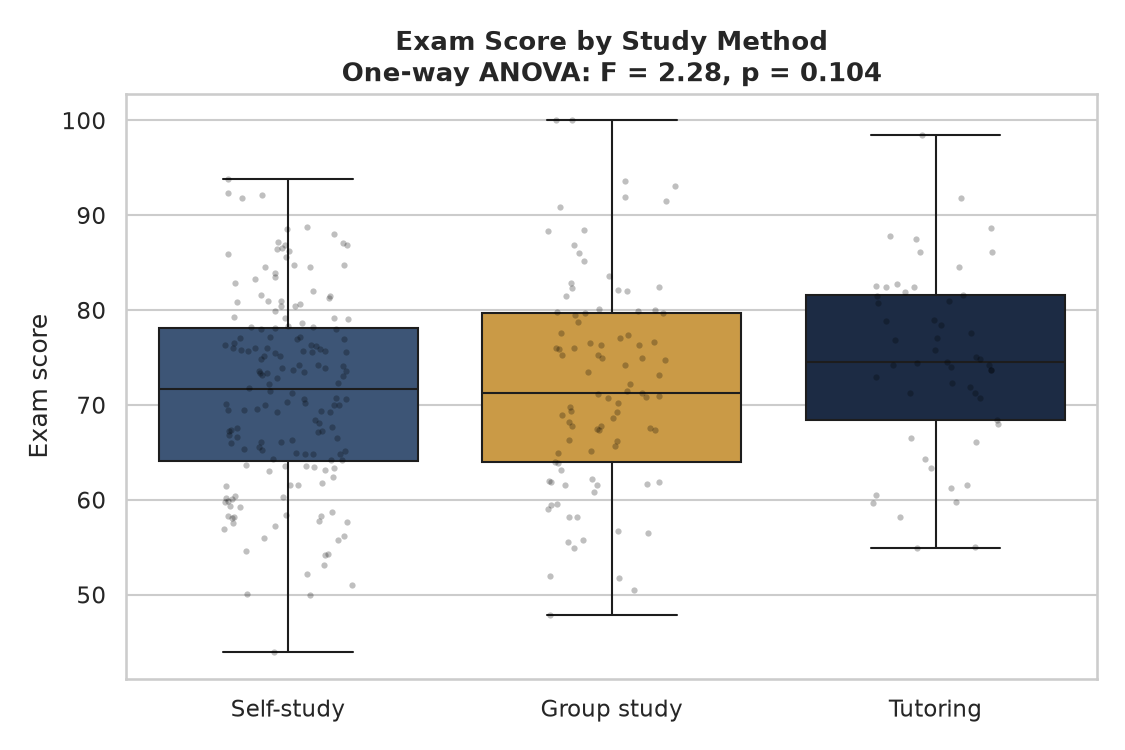
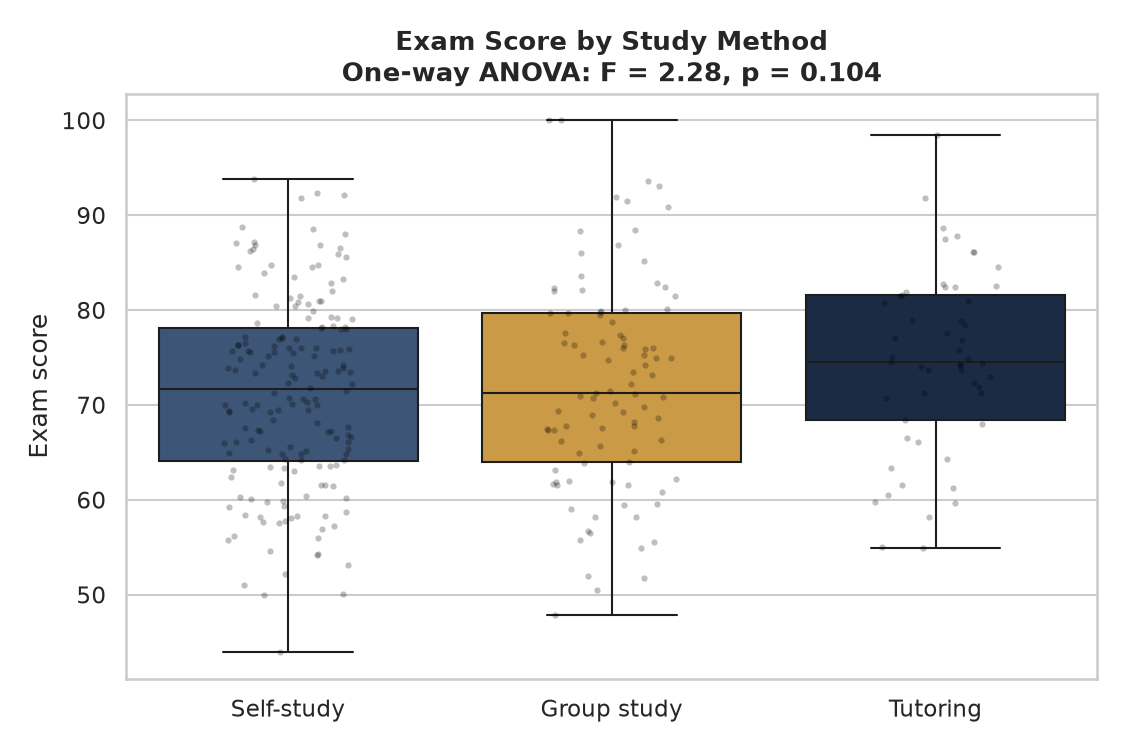
Remove em dashes from Statistical Modelling Project I case study
Replaces em dashes with colons, commas, or parentheses throughout the
case study page and analysis script, and regenerates the results log
and two charts to match.

Claude-Session: https://claude.ai/code/session_01UN69GT3kz6LBCLagnVxnRW

diff --git a/statistical-modelling-project-1-case-study.html b/statistical-modelling-project-1-case-study.html
@@ -3,7 +3,7 @@
 <head>
 <meta charset="UTF-8">
 <meta name="viewport" content="width=device-width, initial-scale=1.0">
-<title>Statistical Modelling Project I — Prachi Dabli</title>
+<title>Statistical Modelling Project I | Prachi Dabli</title>
 <meta name="description" content="A BSc Mathematics statistical modelling case study covering distributions, correlation and regression, applied to a synthetic student exam-performance dataset in Python.">
 <link rel="preconnect" href="https://fonts.googleapis.com">
 <link rel="preconnect" href="https://fonts.gstatic.com" crossorigin>
@@ -125,8 +125,8 @@
 <header class="hero">
   <div class="wrap">
     <span class="eyebrow">Academic Project · BSc Mathematics · Statistical Modelling</span>
-    <h1>Statistical Modelling Project I — Student Exam Performance</h1>
-    <p class="lede">A demonstration of core statistical techniques — distributions, correlation and regression — applied to a synthetic student dataset to test hypotheses about what actually relates to exam performance.</p>
+    <h1>Statistical Modelling Project I: Student Exam Performance</h1>
+    <p class="lede">A demonstration of core statistical techniques (distributions, correlation and regression) applied to a synthetic student dataset to test hypotheses about what actually relates to exam performance.</p>
     <div class="chips">
       <span class="chip">Python</span>
       <span class="chip">pandas / NumPy</span>
@@ -152,8 +152,8 @@
   <div class="wrap">
     <div class="sec-label">Objective</div>
     <h2>The question</h2>
-    <p>The brief behind this piece of coursework was to take a dataset and demonstrate a full statistical workflow: describe it, understand how its variables are distributed, test whether variables relate to one another, and build a model that explains an outcome — all supported by formal hypothesis tests rather than eyeballed patterns.</p>
-    <p>The illustrative question chosen: <strong>what is actually associated with a student's exam score</strong> — and does it hold up once you the run the numbers, or is it just intuition? Six variables were modelled for 320 students: weekly study hours, attendance rate, sleep hours, prior GPA, extracurricular hours, and study method (self-study, group study, or tutoring).</p>
+    <p>The brief behind this piece of coursework was to take a dataset and demonstrate a full statistical workflow: describe it, understand how its variables are distributed, test whether variables relate to one another, and build a model that explains an outcome, with every step supported by formal hypothesis tests rather than eyeballed patterns.</p>
+    <p>The illustrative question chosen: <strong>what is actually associated with a student's exam score</strong>, and does it hold up once you run the numbers, or is it just intuition? Six variables were modelled for 320 students: weekly study hours, attendance rate, sleep hours, prior GPA, extracurricular hours, and study method (self-study, group study, or tutoring).</p>
     <ul>
       <li>Is the exam score roughly normally distributed, and how spread out is it?</li>
       <li>Which variables correlate meaningfully with exam performance, and which don't?</li>
@@ -171,15 +171,15 @@
     <h2>A realistic synthetic dataset</h2>
     <p>The dataset is fully <strong>synthetic</strong>, generated programmatically in Python (NumPy) with a fixed random seed so every result on this page is reproducible. It was deliberately built with realistic statistical structure rather than a perfect textbook relationship:</p>
     <ul>
-      <li>Exam score is generated as a <strong>weighted combination</strong> of the predictors below plus random noise — so relationships exist, but are realistically noisy rather than deterministic.</li>
+      <li>Exam score is generated as a <strong>weighted combination</strong> of the predictors below plus random noise, so relationships exist, but are realistically noisy rather than deterministic.</li>
       <li>A <strong>sleep penalty</strong> kicks in only below 6 hours a night, giving a mild non-linear effect to investigate.</li>
       <li>Study method groups are <strong>unevenly sized</strong> (self-study is most common, tutoring least), as they would be in a real cohort.</li>
-      <li>Several predictors (sleep, extracurricular hours) are included specifically because they turn out <strong>not</strong> to matter much — a deliberate check against assuming every variable is significant.</li>
+      <li>Several predictors (sleep, extracurricular hours) are included specifically because they turn out <strong>not</strong> to matter much: a deliberate check against assuming every variable is significant.</li>
     </ul>
     <table class="data">
       <thead><tr><th>Column</th><th>Description</th><th>Type</th></tr></thead>
       <tbody>
-        <tr><td>student_id</td><td>Unique synthetic student identifier</td><td>—</td></tr>
+        <tr><td>student_id</td><td>Unique synthetic student identifier</td><td>N/A</td></tr>
         <tr><td>study_hours_per_week</td><td>Self-reported weekly study hours</td><td>Continuous</td></tr>
         <tr><td>attendance_rate</td><td>Lecture/seminar attendance, %</td><td>Continuous</td></tr>
         <tr><td>sleep_hours</td><td>Average nightly sleep, hours</td><td>Continuous</td></tr>
@@ -203,8 +203,8 @@
     <div class="sec-label">Methodology</div>
     <h2>From raw data to tested hypotheses</h2>
 
-    <h3>Step 1 — Descriptive statistics &amp; distribution</h3>
-    <p>Before testing relationships, the shape of the outcome variable needs checking — regression and t-tests lean on assumptions about the data's distribution. Exam scores were plotted and tested for normality with a <strong>Shapiro-Wilk test</strong>.</p>
+    <h3>Step 1: Descriptive statistics &amp; distribution</h3>
+    <p>Before testing relationships, the shape of the outcome variable needs checking: regression and t-tests lean on assumptions about the data's distribution. Exam scores were plotted and tested for normality with a <strong>Shapiro-Wilk test</strong>.</p>
     <p class="demo-note">Demonstrates: descriptive statistics, distribution visualisation, formal normality testing.</p>
   </div>
 </section>
@@ -220,13 +220,13 @@
       <div class="stat"><div class="n">p = 0.497</div><div class="l">Shapiro-Wilk p-value <span class="sig sig-no">Fails to reject normality</span></div></div>
       <div class="stat"><div class="n">0.02</div><div class="l">Skewness (near-symmetric)</div></div>
     </div>
-    <p class="fig-cap">With p = 0.497 (&gt; .05), the Shapiro-Wilk test does not reject normality — the exam-score distribution is close to bell-shaped, with skewness near zero. That justifies using regression and t-tests, both of which assume approximately normal, continuous outcomes.</p>
+    <p class="fig-cap">With p = 0.497 (&gt; .05), the Shapiro-Wilk test does not reject normality: the exam-score distribution is close to bell-shaped, with skewness near zero. That justifies using regression and t-tests, both of which assume approximately normal, continuous outcomes.</p>
   </div>
 </section>
 
 <section style="padding-top:0">
   <div class="wrap">
-    <h3>Step 2 — Correlation analysis</h3>
+    <h3>Step 2: Correlation analysis</h3>
     <p>A Pearson correlation matrix across all numeric variables shows which predictors actually move with exam score, before any model is fitted.</p>
     <p class="demo-note">Demonstrates: correlation analysis, statistical significance testing, avoiding the assumption that every variable matters.</p>
   </div>
@@ -249,7 +249,7 @@
             <tr><td>extracurricular_hours</td><td>0.027</td><td>0.634</td></tr>
           </tbody>
         </table>
-        <p style="font-size:14.5px">Study hours, attendance, and prior GPA all correlate significantly with exam score. Sleep and extracurricular commitment do not reach significance at the 5% level — a useful finding in itself, since it stops the analysis reading too much into weak relationships.</p>
+        <p style="font-size:14.5px">Study hours, attendance, and prior GPA all correlate significantly with exam score. Sleep and extracurricular commitment do not reach significance at the 5% level: a useful finding in itself, since it stops the analysis reading too much into weak relationships.</p>
       </div>
     </div>
   </div>
@@ -257,7 +257,7 @@
 
 <section style="padding-top:0">
   <div class="wrap">
-    <h3>Step 3 — Simple linear regression</h3>
+    <h3>Step 3: Simple linear regression</h3>
     <p>Study hours showed the strongest single correlation, so it was modelled first on its own: <code>exam_score ~ study_hours_per_week</code>, fitted by ordinary least squares (OLS) in <code>statsmodels</code>.</p>
     <pre><code>model = smf.ols("exam_score ~ study_hours_per_week", data=df).fit()</code></pre>
     <p class="demo-note">Demonstrates: simple linear regression, interpreting slope/intercept, R² as goodness of fit.</p>
@@ -275,13 +275,13 @@
       <div class="stat"><div class="n">R² = 0.268</div><div class="l">Variance explained by study hours alone</div></div>
       <div class="stat"><div class="n">p &lt; .001</div><div class="l">Slope is statistically significant</div></div>
     </div>
-    <p class="fig-cap">Each extra hour of weekly study is associated with roughly 1.4 additional exam points. But study hours alone explain under 27% of the variation in scores — a clear sign that other factors matter too, which motivates the multiple regression below.</p>
+    <p class="fig-cap">Each extra hour of weekly study is associated with roughly 1.4 additional exam points. But study hours alone explain under 27% of the variation in scores: a clear sign that other factors matter too, which motivates the multiple regression below.</p>
   </div>
 </section>
 
 <section style="padding-top:0">
   <div class="wrap">
-    <h3>Step 4 — Multiple linear regression</h3>
+    <h3>Step 4: Multiple linear regression</h3>
     <p>All five numeric predictors plus study method (as a categorical dummy) were entered into a multiple OLS regression, to see how much of exam score they jointly explain and which stay significant once the others are controlled for.</p>
     <pre><code>model = smf.ols(
     "exam_score ~ study_hours_per_week + attendance_rate + sleep_hours "
@@ -320,7 +320,7 @@
         <div class="stat"><div class="n">+6.74</div><div class="l">Mean point difference</div></div>
         <div class="stat"><div class="n">[4.56, 8.92]</div><div class="l">95% confidence interval for the difference</div></div>
       </div>
-      <p>The gap is both statistically significant and practically meaningful — a nearly 7-point average advantage for consistent attendance, with a 95% CI that comfortably excludes zero.</p>
+      <p>The gap is both statistically significant and practically meaningful: a nearly 7-point average advantage for consistent attendance, with a 95% CI that comfortably excludes zero.</p>
     </div>
 
     <div class="bq">
@@ -330,7 +330,7 @@
         <div class="stat"><div class="n">F = 2.28</div><div class="l">One-way ANOVA F-statistic</div></div>
         <div class="stat"><div class="n">p = 0.104</div><div class="l">p-value <span class="sig sig-no">Fail to reject H₀</span></div></div>
       </div>
-      <p>Despite tutoring students scoring highest on average, the difference between groups is <strong>not statistically significant</strong> at the 5% level. This is a genuinely useful negative result: on this data, it would be overreaching to claim study method drives exam performance — the apparent gap could plausibly be down to chance, at least at this sample size.</p>
+      <p>Despite tutoring students scoring highest on average, the difference between groups is <strong>not statistically significant</strong> at the 5% level. This is a genuinely useful negative result: on this data, it would be overreaching to claim study method drives exam performance. The apparent gap could plausibly be down to chance, at least at this sample size.</p>
     </div>
 
     <div class="fig">
@@ -350,9 +350,9 @@
       <li><strong>Study hours, attendance, and prior GPA</strong> are all significantly correlated with exam score; sleep and extracurricular commitment are not, at least not on their own.</li>
       <li>A <strong>simple regression</strong> on study hours alone explains ~27% of score variation; a <strong>multiple regression</strong> combining the significant predictors nearly doubles that, to ~48%.</li>
       <li>Students attending ≥85% of sessions score <strong>~6.7 points higher on average</strong>, a statistically significant and practically meaningful gap (Welch's t-test, p &lt; .001).</li>
-      <li><strong>Study method does not show a statistically significant effect</strong> (ANOVA, p = 0.104) — a reminder that an eye-catching pattern in a bar chart still needs a formal test before it's treated as a finding.</li>
+      <li><strong>Study method does not show a statistically significant effect</strong> (ANOVA, p = 0.104): a reminder that an eye-catching pattern in a bar chart still needs a formal test before it's treated as a finding.</li>
     </ul>
-    <p>The overall workflow — distribution check, correlation screening, simple then multiple regression, and formal hypothesis testing — is the same structure used in every later analytics project in this portfolio, just applied here to its purest, most mathematical form.</p>
+    <p>The overall workflow (distribution check, correlation screening, simple then multiple regression, and formal hypothesis testing) is the same structure used in every later analytics project in this portfolio, just applied here to its purest, most mathematical form.</p>
   </div>
 </section>
 

diff --git a/statistical-modelling-project-1/code/02_analysis.py b/statistical-modelling-project-1/code/02_analysis.py
@@ -1,5 +1,5 @@
 """
-Statistical Modelling Project I — analysis.
+Statistical Modelling Project I: analysis.
 
 Demonstrates: descriptive statistics, distribution checks, correlation
 analysis, simple & multiple linear regression, and hypothesis testing
@@ -99,7 +99,7 @@ plt.close(fig)
 # 4. SIMPLE LINEAR REGRESSION: exam_score ~ study_hours_per_week
 # ---------------------------------------------------------------------------
 log("\n" + "=" * 70)
-log("4. SIMPLE LINEAR REGRESSION — exam_score ~ study_hours_per_week")
+log("4. SIMPLE LINEAR REGRESSION: exam_score ~ study_hours_per_week")
 log("=" * 70)
 
 simple_model = smf.ols("exam_score ~ study_hours_per_week", data=df).fit()
@@ -149,10 +149,10 @@ log("\nVariance Inflation Factors:")
 log(vif.to_string(index=False))
 
 # ---------------------------------------------------------------------------
-# 6. HYPOTHESIS TEST — two-sample t-test on attendance split
+# 6. HYPOTHESIS TEST: two-sample t-test on attendance split
 # ---------------------------------------------------------------------------
 log("\n" + "=" * 70)
-log("6. TWO-SAMPLE T-TEST — attendance >= 85% vs < 85%")
+log("6. TWO-SAMPLE T-TEST: attendance >= 85% vs < 85%")
 log("=" * 70)
 
 high_att = df.loc[df["attendance_rate"] >= 85, "exam_score"]
@@ -174,10 +174,10 @@ ci_low, ci_high = mean_diff - 1.96 * se_diff, mean_diff + 1.96 * se_diff
 log(f"Mean difference = {mean_diff:.2f} points, 95% CI = [{ci_low:.2f}, {ci_high:.2f}]")
 
 # ---------------------------------------------------------------------------
-# 7. ONE-WAY ANOVA — exam_score by study_method
+# 7. ONE-WAY ANOVA: exam_score by study_method
 # ---------------------------------------------------------------------------
 log("\n" + "=" * 70)
-log("7. ONE-WAY ANOVA — exam_score by study_method")
+log("7. ONE-WAY ANOVA: exam_score by study_method")
 log("=" * 70)
 
 groups = [g["exam_score"].values for _, g in df.groupby("study_method")]
